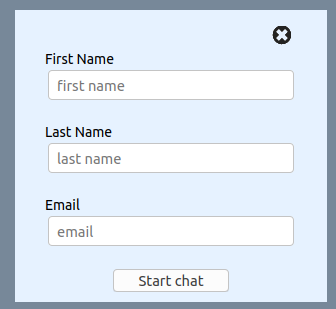
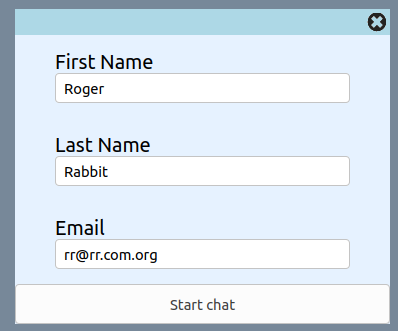
updated screenshots

diff --git a/frontend/src/App.css b/frontend/src/App.css
@@ -48,7 +48,6 @@
   visibility: visible;
 }
 
-
 /* chat sets css for CHAT component */
 
 .popup {
@@ -112,9 +111,8 @@
 
 .survey {
   width: 100%;
-  height: 50vh;
+  height: 83vh;
 }
-
 
 .close {
   cursor: pointer;
